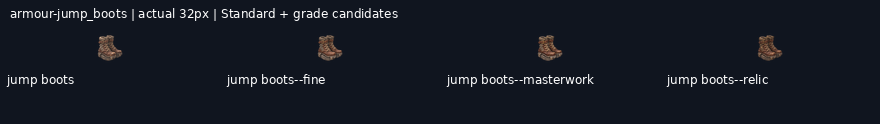
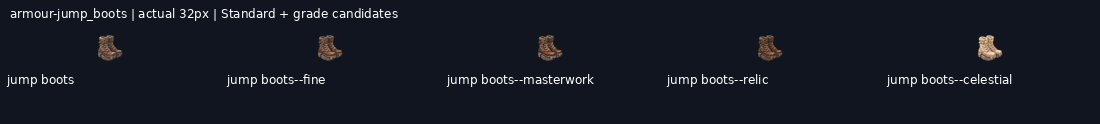
art: draw armour-jump_boots--celestial grade candidate

diff --git a/art/_archive/gear/2026-11-19-kept-blade-grades/HANDOFF.md b/art/_archive/gear/2026-11-19-kept-blade-grades/HANDOFF.md
@@ -1,6 +1,6 @@
 # Gear grade candidates
 
-**176/208 grade candidates delivered** on `art/2026-11-19-kept-blade-grades`. Shared mailbox: https://github.com/leonpentastorm/Project-Heaven-Cry/issues/3 . See claim.json for this lane’s current Standards. Released overlapping blades reuse12 peer candidates, with3 local alternatives archived.
+**177/208 grade candidates delivered** on `art/2026-11-19-kept-blade-grades`. Shared mailbox: https://github.com/leonpentastorm/Project-Heaven-Cry/issues/3 . See claim.json for this lane’s current Standards. Released overlapping blades reuse12 peer candidates, with3 local alternatives archived.
 
 Leon requested continuous candidate production; proof approval is not fabricated. All candidates remain review-candidate, production_approved:false, implementation_ready:false, with outline.review_required:true. Exact outline is measured, never asserted unless the masks match. Per-image registration is uniform scaling/translation only, without warp, silhouette masks, filled pixels or code-drawn substitutes. The generated native remains untouched.
 
@@ -10,12 +10,12 @@ Tomorrow: fetch this branch and develop safely, read the latest issue 3 comments
 
 Peer audit: [coordination/peer-audit-2026-11-19.md](coordination/peer-audit-2026-11-19.md). Peer58 masters/232 exports and12 canonical imports are integrated with versioned alpha<8 cleanup; originals are retained. See coordination/peer-import-v2/manifest.json and post-catalog VALIDATION.json (strict margins pass, solid alpha unchanged). Peer quota resets20 November2026 at09:45:39 Bangkok time; this does not establish this session’s quota.
 
-Remaining: weapon-ork_machete--masterwork, weapon-ork_machete--relic, weapon-ork_machete--celestial, weapon-war_axe--fine, weapon-war_axe--masterwork, weapon-war_axe--relic, weapon-war_axe--celestial, weapon-parlour_pistol--fine, weapon-parlour_pistol--masterwork, weapon-parlour_pistol--relic, weapon-parlour_pistol--celestial, weapon-lever_carbine--fine, weapon-lever_carbine--masterwork, weapon-lever_carbine--relic, weapon-lever_carbine--celestial, weapon-sawn_off--fine, weapon-sawn_off--masterwork, weapon-sawn_off--relic, weapon-sawn_off--celestial, weapon-coach_gun--fine, weapon-coach_gun--masterwork, weapon-coach_gun--relic, weapon-coach_gun--celestial, weapon-legion_bullpup--fine, weapon-legion_bullpup--masterwork, weapon-legion_bullpup--relic, weapon-legion_bullpup--celestial, weapon-whisper_smg--fine, weapon-whisper_smg--masterwork, weapon-whisper_smg--relic, weapon-whisper_smg--celestial, armour-jump_boots--celestial.
+Remaining: weapon-ork_machete--masterwork, weapon-ork_machete--relic, weapon-ork_machete--celestial, weapon-war_axe--fine, weapon-war_axe--masterwork, weapon-war_axe--relic, weapon-war_axe--celestial, weapon-parlour_pistol--fine, weapon-parlour_pistol--masterwork, weapon-parlour_pistol--relic, weapon-parlour_pistol--celestial, weapon-lever_carbine--fine, weapon-lever_carbine--masterwork, weapon-lever_carbine--relic, weapon-lever_carbine--celestial, weapon-sawn_off--fine, weapon-sawn_off--masterwork, weapon-sawn_off--relic, weapon-sawn_off--celestial, weapon-coach_gun--fine, weapon-coach_gun--masterwork, weapon-coach_gun--relic, weapon-coach_gun--celestial, weapon-legion_bullpup--fine, weapon-legion_bullpup--masterwork, weapon-legion_bullpup--relic, weapon-legion_bullpup--celestial, weapon-whisper_smg--fine, weapon-whisper_smg--masterwork, weapon-whisper_smg--relic, weapon-whisper_smg--celestial.
 
 Service-rejected requests (do not repeatedly resubmit): weapon-coach_gun--fine, weapon-legion_bullpup--fine, weapon-lever_carbine--fine, weapon-ork_machete--masterwork, weapon-parlour_pistol--fine, weapon-sawn_off--fine, weapon-war_axe--fine, weapon-whisper_smg--fine.
 
 Waiting on rejected prerequisites: weapon-coach_gun--celestial, weapon-coach_gun--masterwork, weapon-coach_gun--relic, weapon-legion_bullpup--celestial, weapon-legion_bullpup--masterwork, weapon-legion_bullpup--relic, weapon-lever_carbine--celestial, weapon-lever_carbine--masterwork, weapon-lever_carbine--relic, weapon-ork_machete--celestial, weapon-ork_machete--relic, weapon-parlour_pistol--celestial, weapon-parlour_pistol--masterwork, weapon-parlour_pistol--relic, weapon-sawn_off--celestial, weapon-sawn_off--masterwork, weapon-sawn_off--relic, weapon-war_axe--celestial, weapon-war_axe--masterwork, weapon-war_axe--relic, weapon-whisper_smg--celestial, weapon-whisper_smg--masterwork, weapon-whisper_smg--relic.
 
-Ready independent next steps, in queue order: armour-jump_boots--celestial. Other pending grades follow their preceding grade.
+Ready independent next steps, in queue order: . Other pending grades follow their preceding grade.
 
 Runtime handoff: implementation_ready:false records review status but does not gate the web asset builder. The builder emits grade asset keys; the current UI gear resolver still needs grade-aware selection. Do not claim that runtime grade selection is implemented by these art deliveries.
